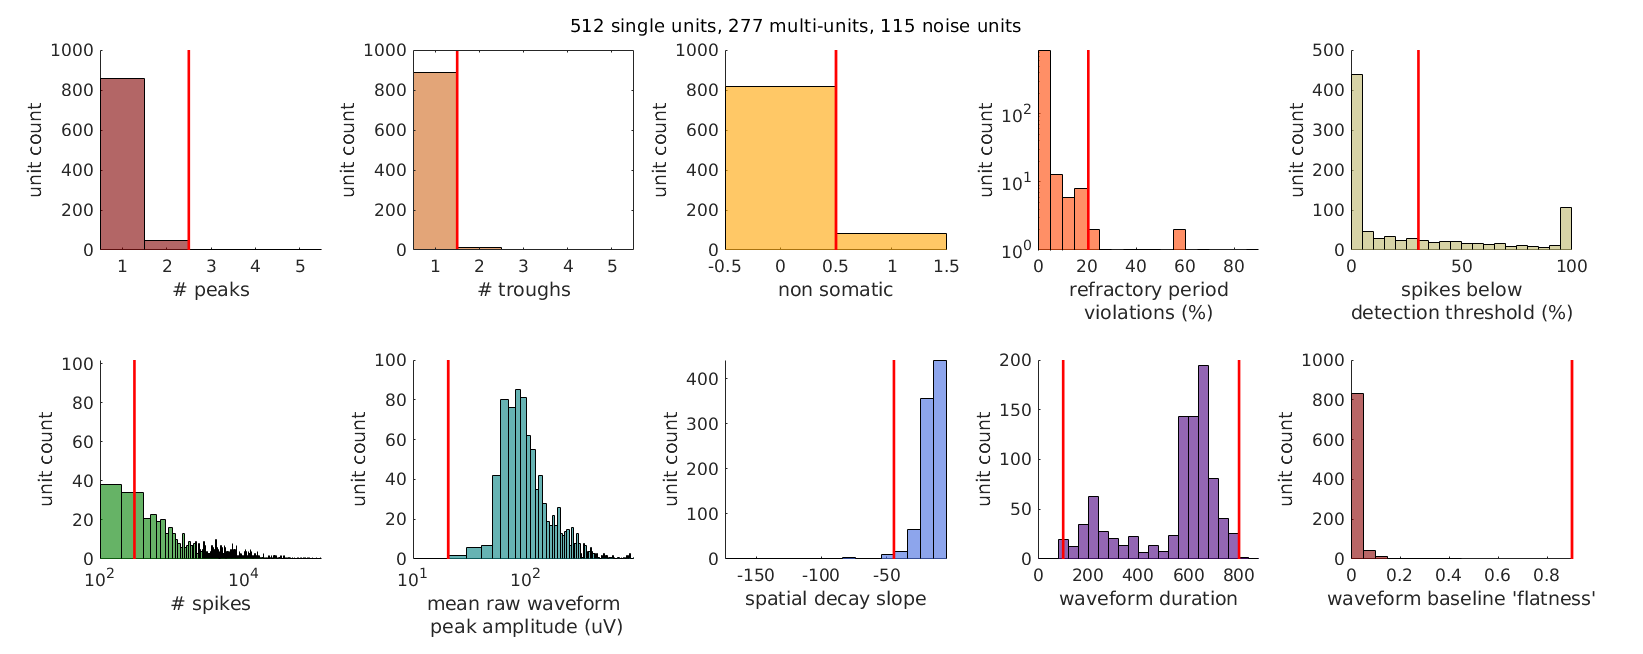
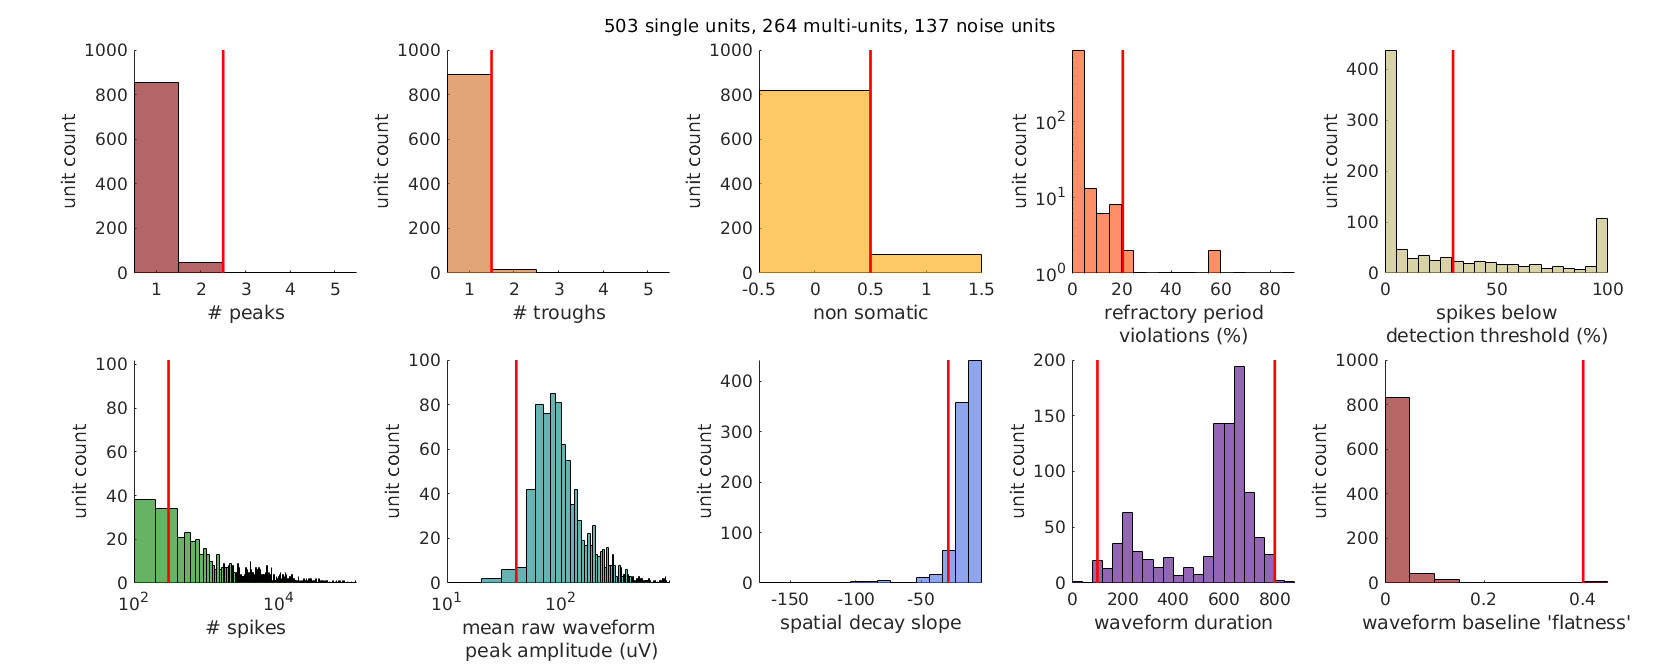
generalPlotHistUpdate

diff --git a/qualityMetrics/bc_plotGlobalQualityMetric.m b/qualityMetrics/bc_plotGlobalQualityMetric.m
@@ -23,7 +23,7 @@ if param.plotGlobal
         subplot(1, 5, 1:4)
         vennEulerDiagram(setsw, {'# peaks', '#troughs', 'non-somatic', 'refractory period violations', ...
             'undetected spikes', '# spikes', 'waveform amplitude', 'spatial decay slope', 'waveform duration', ...
-            '','isolation distance'}, ...
+            'waveform baseline','isolation distance'}, ...
             'ColorOrder', colorMtx(:, 1:3), ...
             'ShowIntersectionCounts', 1);
         subplot(1, 5, 5) % hacky way to get a legend
@@ -32,7 +32,7 @@ if param.plotGlobal
         arrayfun(@(x) plot(NaN, NaN, 'linewidth', 2, 'color', colorMtx(x, :)), 1:8);
         legend({'# peaks', '#troughs', 'non-somatic', 'refractory period violations', ...
             'undetected spikes', '# spikes', 'waveform amplitude', 'spatial decay slope', 'waveform duration',...
-            'isolation distance'})
+            'waveform baseline','isolation distance'})
         set(gcf, 'color', 'w')
 
     else
@@ -72,23 +72,45 @@ if param.plotGlobal
     
     % 1. single/multi/noise/axonal waveforms 
     figure('Color', 'w');
-    subplot(131)
+    try
+    uniqueTemplates = unique(spikeTemplates);
+    subplot(231)
     title('Single unit template waveforms');hold on;
     singleU = uniqueTemplates(find(unitType==1));
     set(gca, 'XColor', 'w', 'YColor', 'w')
     singleUnitLines = arrayfun(@(x) plot(squeeze(templateWaveforms(singleU(x),:,qMetric.maxChannels(singleU(x)))), 'linewidth', 1, 'Color', 'k'), 1:size(singleU,1));
     
-    subplot(132)
+    subplot(232)
     set(gca, 'XColor', 'w', 'YColor', 'w')
     multiU = uniqueTemplates(find(unitType==2));
     title('Multi unit template waveforms');hold on;
     multiUnitLines = arrayfun(@(x) plot(squeeze(templateWaveforms(multiU(x),:,qMetric.maxChannels(multiU(x)))), 'linewidth', 1, 'Color', 'k'), 1:size(multiU,1));
     
-    subplot(133)
+    subplot(233)
     set(gca, 'XColor', 'w', 'YColor', 'w')
     noiseU = uniqueTemplates(find(unitType==0));
     title('Noise unit template waveforms');hold on;
     noiseUnitLines = arrayfun(@(x) plot(squeeze(templateWaveforms(noiseU(x),:,qMetric.maxChannels(noiseU(x)))), 'linewidth', 1, 'Color', 'k'), 1:size(noiseU,1));
+    catch
+    end
+    subplot(234)
+    set(gca, 'XColor', 'w', 'YColor', 'w')
+    singleUidx = find(unitType == 1); hold on;
+    rawSingleUnitLines = arrayfun(@(x) plot(squeeze(qMetric.rawWaveforms(singleUidx(x)).spkMapMean(qMetric.maxChannels(singleUidx(x)),:)), 'linewidth', 1, 'Color', 'k'), ...
+         1:size(singleUidx,1));
+    
+    subplot(235)
+    set(gca, 'XColor', 'w', 'YColor', 'w')
+    multiUidx = find(unitType == 2); hold on;
+    rawMultiUnitLines = arrayfun(@(x) plot(squeeze(qMetric.rawWaveforms(multiUidx(x)).spkMapMean(qMetric.maxChannels(multiUidx(x)),:)), 'linewidth', 1, 'Color', 'k'), ...
+         1:size(multiUidx,1));
+    
+    subplot(236)
+    set(gca, 'XColor', 'w', 'YColor', 'w')
+    noiseUidx = find(unitType == 0); hold on;
+    rawNoiseUnitLines = arrayfun(@(x) plot(squeeze(qMetric.rawWaveforms(noiseUidx(x)).spkMapMean(qMetric.maxChannels(noiseUidx(x)),:)), 'linewidth', 1, 'Color', 'k'), ...
+         1:size(noiseUidx,1));
+    
 
     % 2. histogram for each quality metric, red line indicates
     % classification threshold
@@ -194,7 +216,7 @@ if param.plotGlobal
     hold on;
     histogram(qMetric.waveformBaseline, 'FaceColor', colorMtx(10, 1:3), 'FaceAlpha', colorMtx(10, 4), 'BinEdges', [0:0.05:max(qMetric.waveformBaseline)]);
     yLim = ylim;
-    line([param.maxWvBaselineFraction + 0.5, param.maxWvBaselineFraction + 0.5], [yLim(1), yLim(2)], 'Color', 'r', 'LineWidth', 2)
+    line([param.maxWvBaselineFraction , param.maxWvBaselineFraction ], [yLim(1), yLim(2)], 'Color', 'r', 'LineWidth', 2)
     ylabel('unit count')
     xlabel('waveform baseline ''flatness''')
     makepretty;

diff --git a/qualityMetrics/bc_qualityParamValues.m b/qualityMetrics/bc_qualityParamValues.m
@@ -5,9 +5,9 @@ param.plotGlobal =1;
 % refractory period parameters
 param.tauR = 0.0020; %refractory period time (s)
 param.tauC = 0.0001; %censored period time (s)
-param.maxRPVviolations = 20;
+param.maxRPVviolations = 10;
 % percentage spikes missing parameters 
-param.maxPercSpikesMissing = 30;
+param.maxPercSpikesMissing = 20;
 param.computeTimeChunks = 0;
 param.deltaTimeChunk = NaN; 
 % number of spikes
@@ -18,12 +18,12 @@ param.maxNTroughs = 1;
 param.somatic = 1; 
 param.minWvDuration = 100; %ms
 param.maxWvDuration = 800; %ms
-param.minSpatialDecaySlope = -45;
-param.maxWvBaselineFraction = 0.4;
+param.minSpatialDecaySlope = -20;
+param.maxWvBaselineFraction = 0.3;
 % amplitude parameters
 param.rawFolder = [ephysap_path, '/..'];
 param.nRawSpikesToExtract = 100; 
-param.minAmplitude = 20; 
+param.minAmplitude = 40; 
 % recording parametrs
 param.ephys_sample_rate = 30000;
 param.nChannels = 385;

diff --git a/qualityMetrics/bc_runAllQualityMetrics.m b/qualityMetrics/bc_runAllQualityMetrics.m
@@ -85,8 +85,7 @@ qMetric.maxChannels = maxChannels;
 
 verbose = 1;
 qMetric.rawWaveforms = bc_extractRawWaveformsFast(param.rawFolder, param.nChannels, param.nRawSpikesToExtract, ...
-    spikeTimes, spikeTemplates, verbose); % takes ~10' - QQ but bug in this
-%    method I need to fix, reverting back to slow method for now
+    spikeTimes, spikeTemplates, 1, verbose); % takes ~10' for an average dataset
 % [qMetric.rawWaveforms, qMetric.rawMemMap] = bc_extractRawWaveforms(param.rawFolder, param.nChannels, param.nRawSpikesToExtract, ...
 %     spikeTimes, spikeTemplates, usedChannels, verbose);
 
